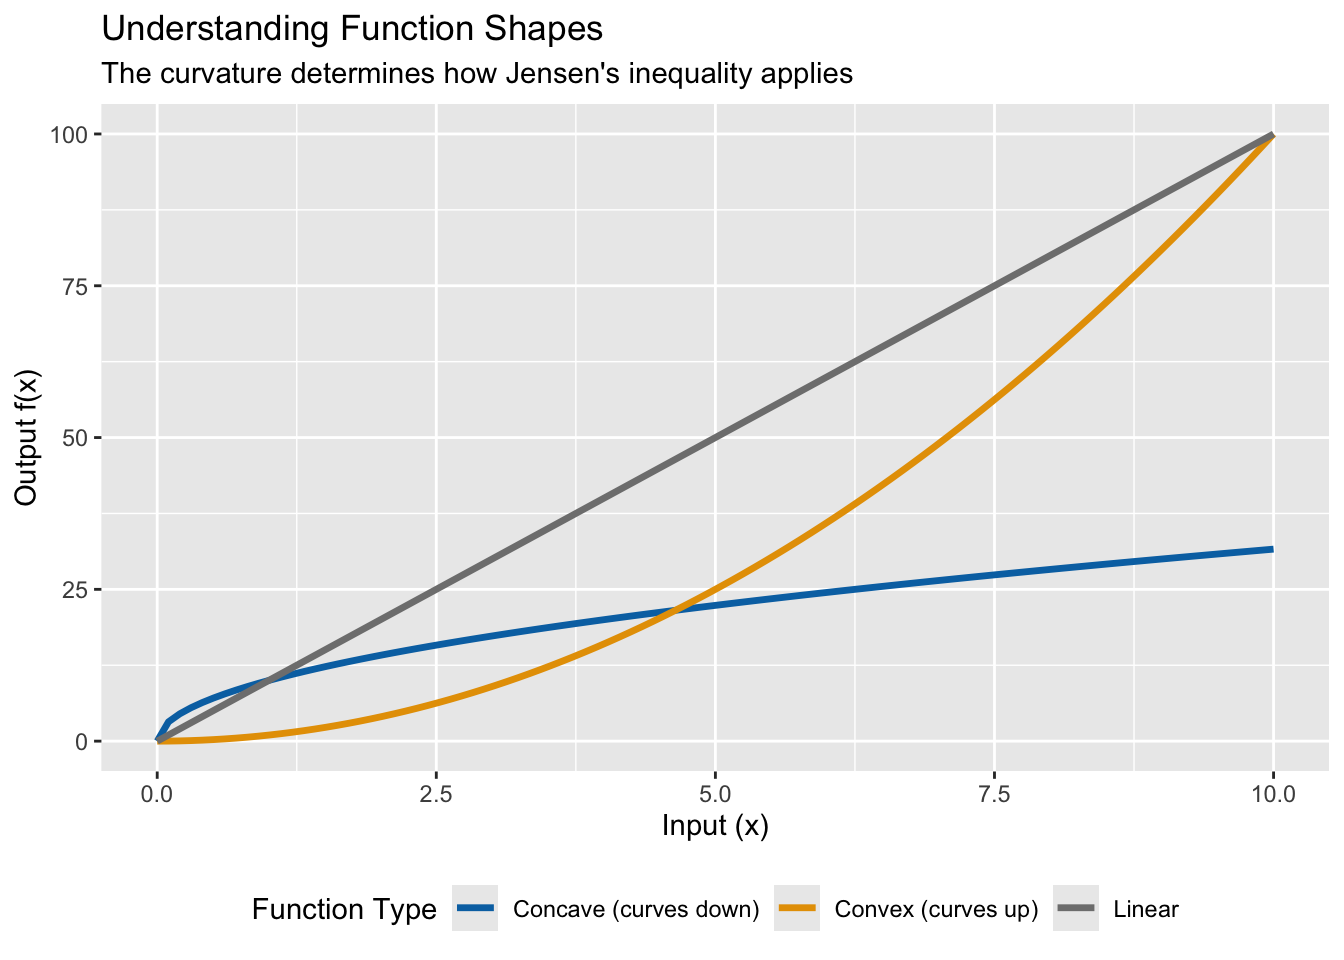
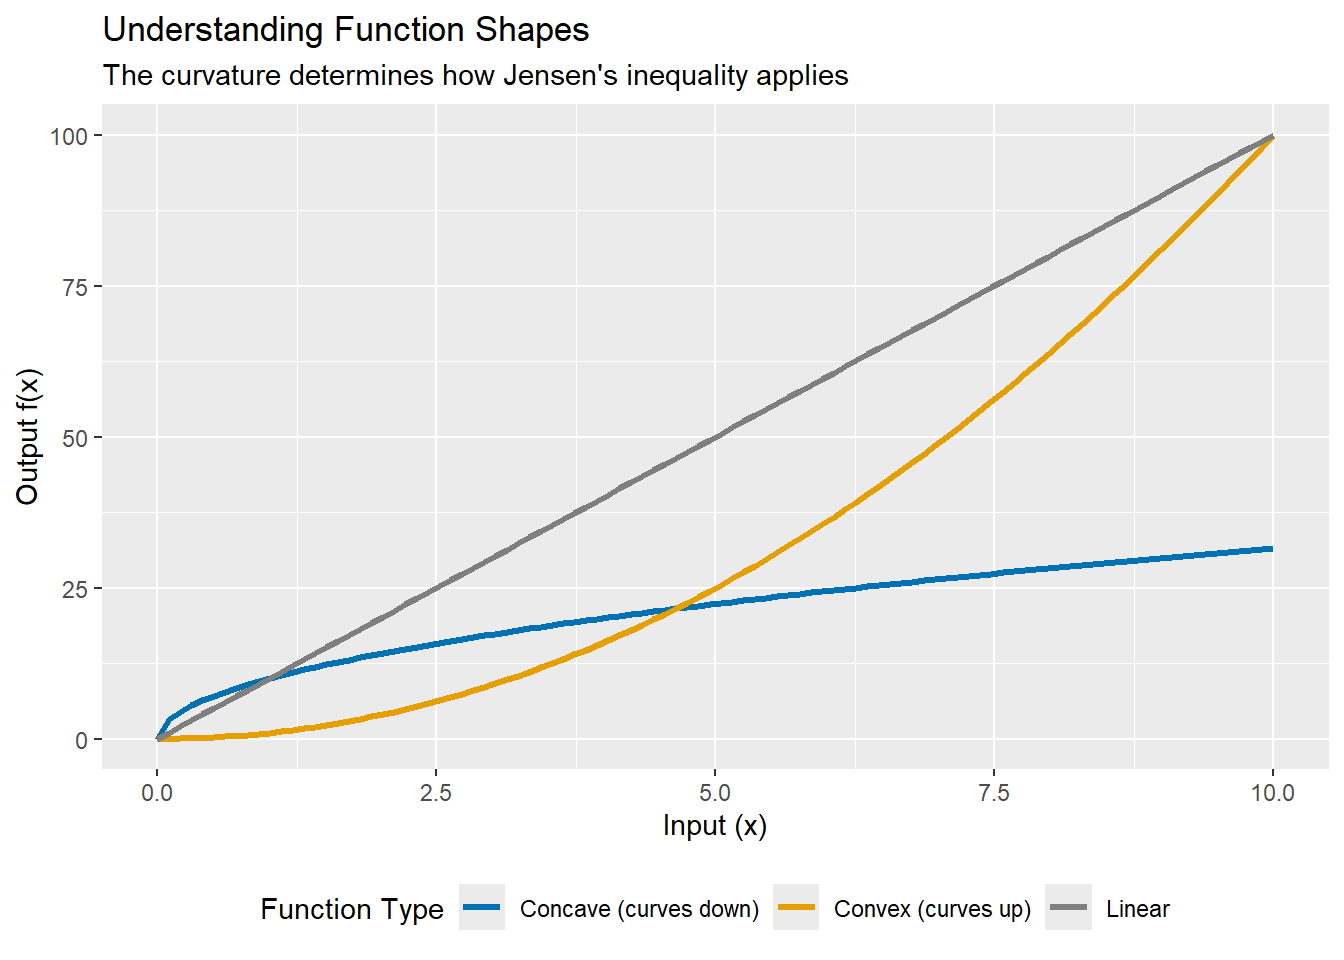
fix jensens typo

diff --git a/content/post/2026-01-11-jensens-inequality/index.en.md b/content/post/2026-01-11-jensens-inequality/index.en.md
@@ -91,7 +91,7 @@ ggplot(demo_data, aes(x = x, y = y, color = type)) +
   theme(legend.position = "bottom")
 ```
 
-<img src="{{< blogdown/postref >}}index.en_files/figure-html/unnamed-chunk-1-1.png" alt="" width="672" />
+<img src="{{< blogdown/postref >}}index.en_files/figure-html/unnamed-chunk-1-1.png" width="672" />
 
 **Key insight:** 
 
@@ -101,7 +101,7 @@ ggplot(demo_data, aes(x = x, y = y, color = type)) +
 
 ## Population Growth
 
-Population growth rates provide a perfect example of why Jensen's inequality matters in ecology. Consider the classic exponential growth model:\
+Population growth rates provide a perfect example of why Jensen's inequality matters in ecology. Consider the classic exponential growth model:
 
  $$
  N_t = N_0 e^{kt}
@@ -196,9 +196,9 @@ ggplot(plot_data, aes(x = year)) +
 theme_minimal()
 ```
 
-<img src="{{< blogdown/postref >}}index.en_files/figure-html/unnamed-chunk-2-1.png" alt="" width="672" />
+<img src="{{< blogdown/postref >}}index.en_files/figure-html/unnamed-chunk-2-1.png" width="672" />
 
-The deterministic model (orange) overestimates population growth compared to the geometric mean (blue). After 50 years, the deterministic model predicts 435, while the geometric mean is only 521
+The deterministic model (orange) underestimates population growth compared to the geometric mean (blue). After 50 years, the deterministic model predicts 435, while the geometric mean is only 521
 
 **Why?** Because $ e^x$ is convex. By Jensen's inequality:
 
